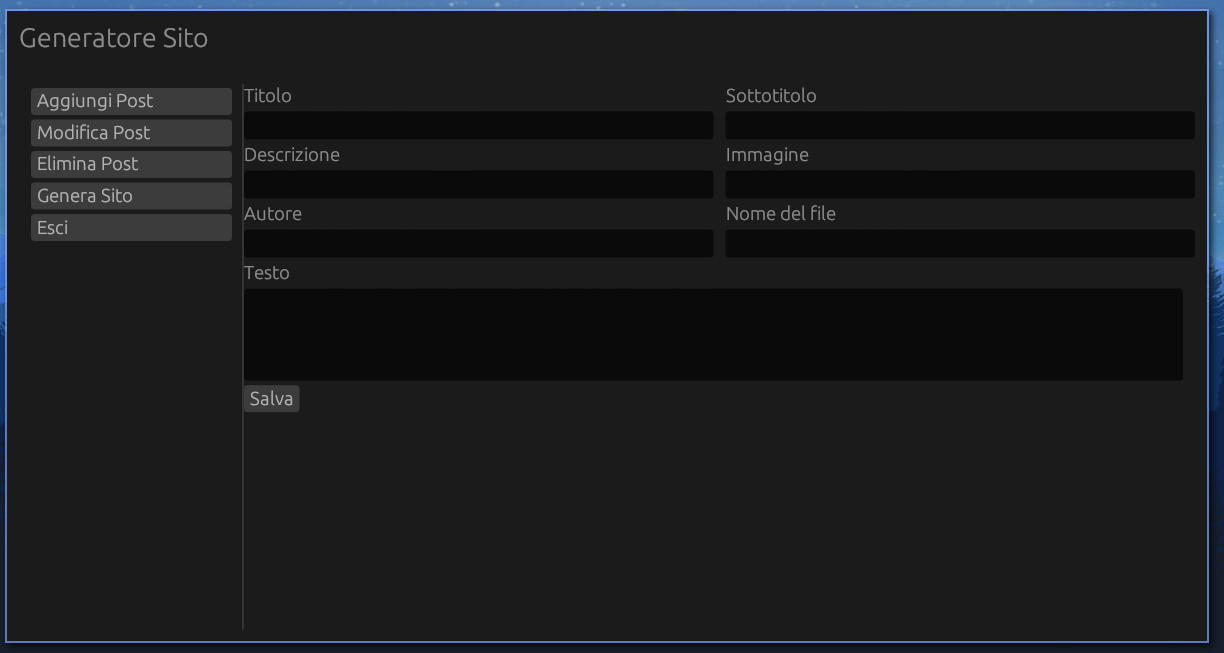
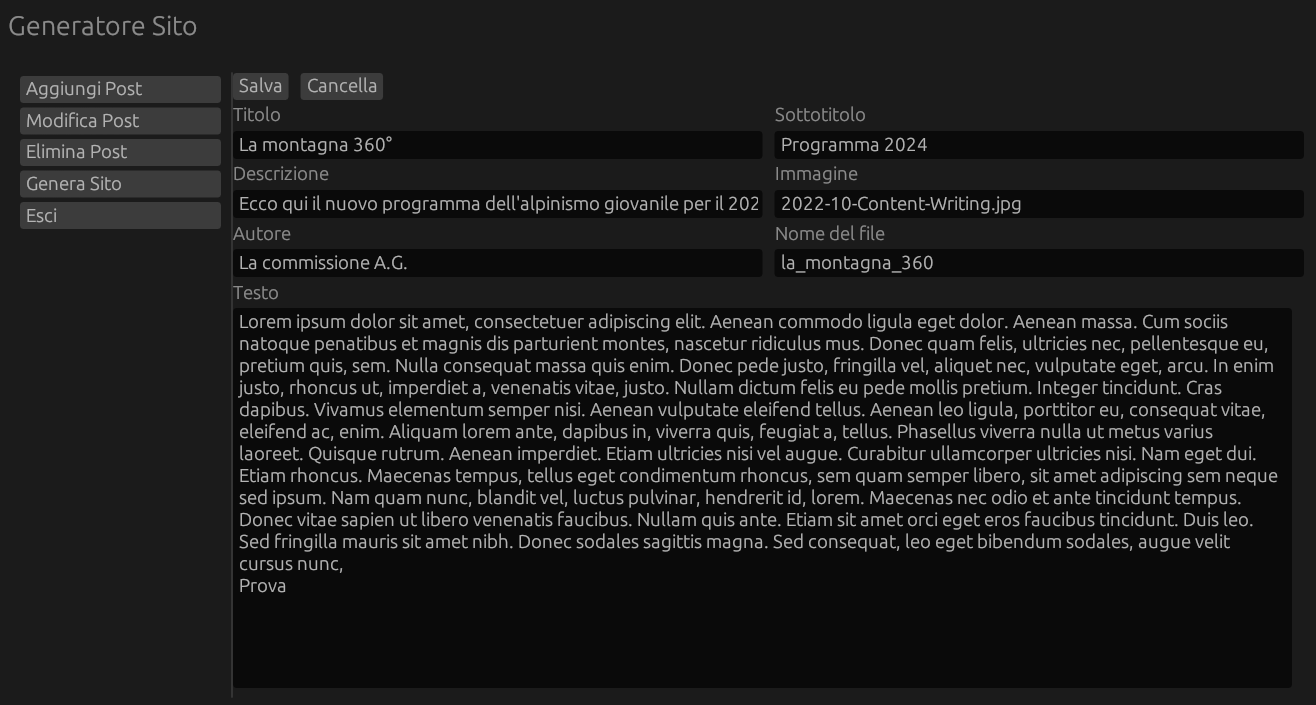
We are GUI

Changed region(s): [[0.0, 0.0, 1.0, 0.8576], [0.0, 0.9801, 0.9935, 1.0], [0.5899, 0.3675, 0.7141, 0.3982]]

diff --git a/README.md b/README.md
@@ -60,11 +60,11 @@ Use .jpg images or any compressed format (not .png)
 - [x] Blog Page
 - [x] Buttons connected
 - [x] Images from png to jpg
-- [ ] GUI
+- [x] GUI
   - [x] Genera Sito 
   - [x] Aggiungi Post 
-  - [ ] Modifica Post 
-  - [ ] Rimuovi Post
+  - [x] Modifica Post 
+  - [x] Rimuovi Post
 
 
 ## Pagine
